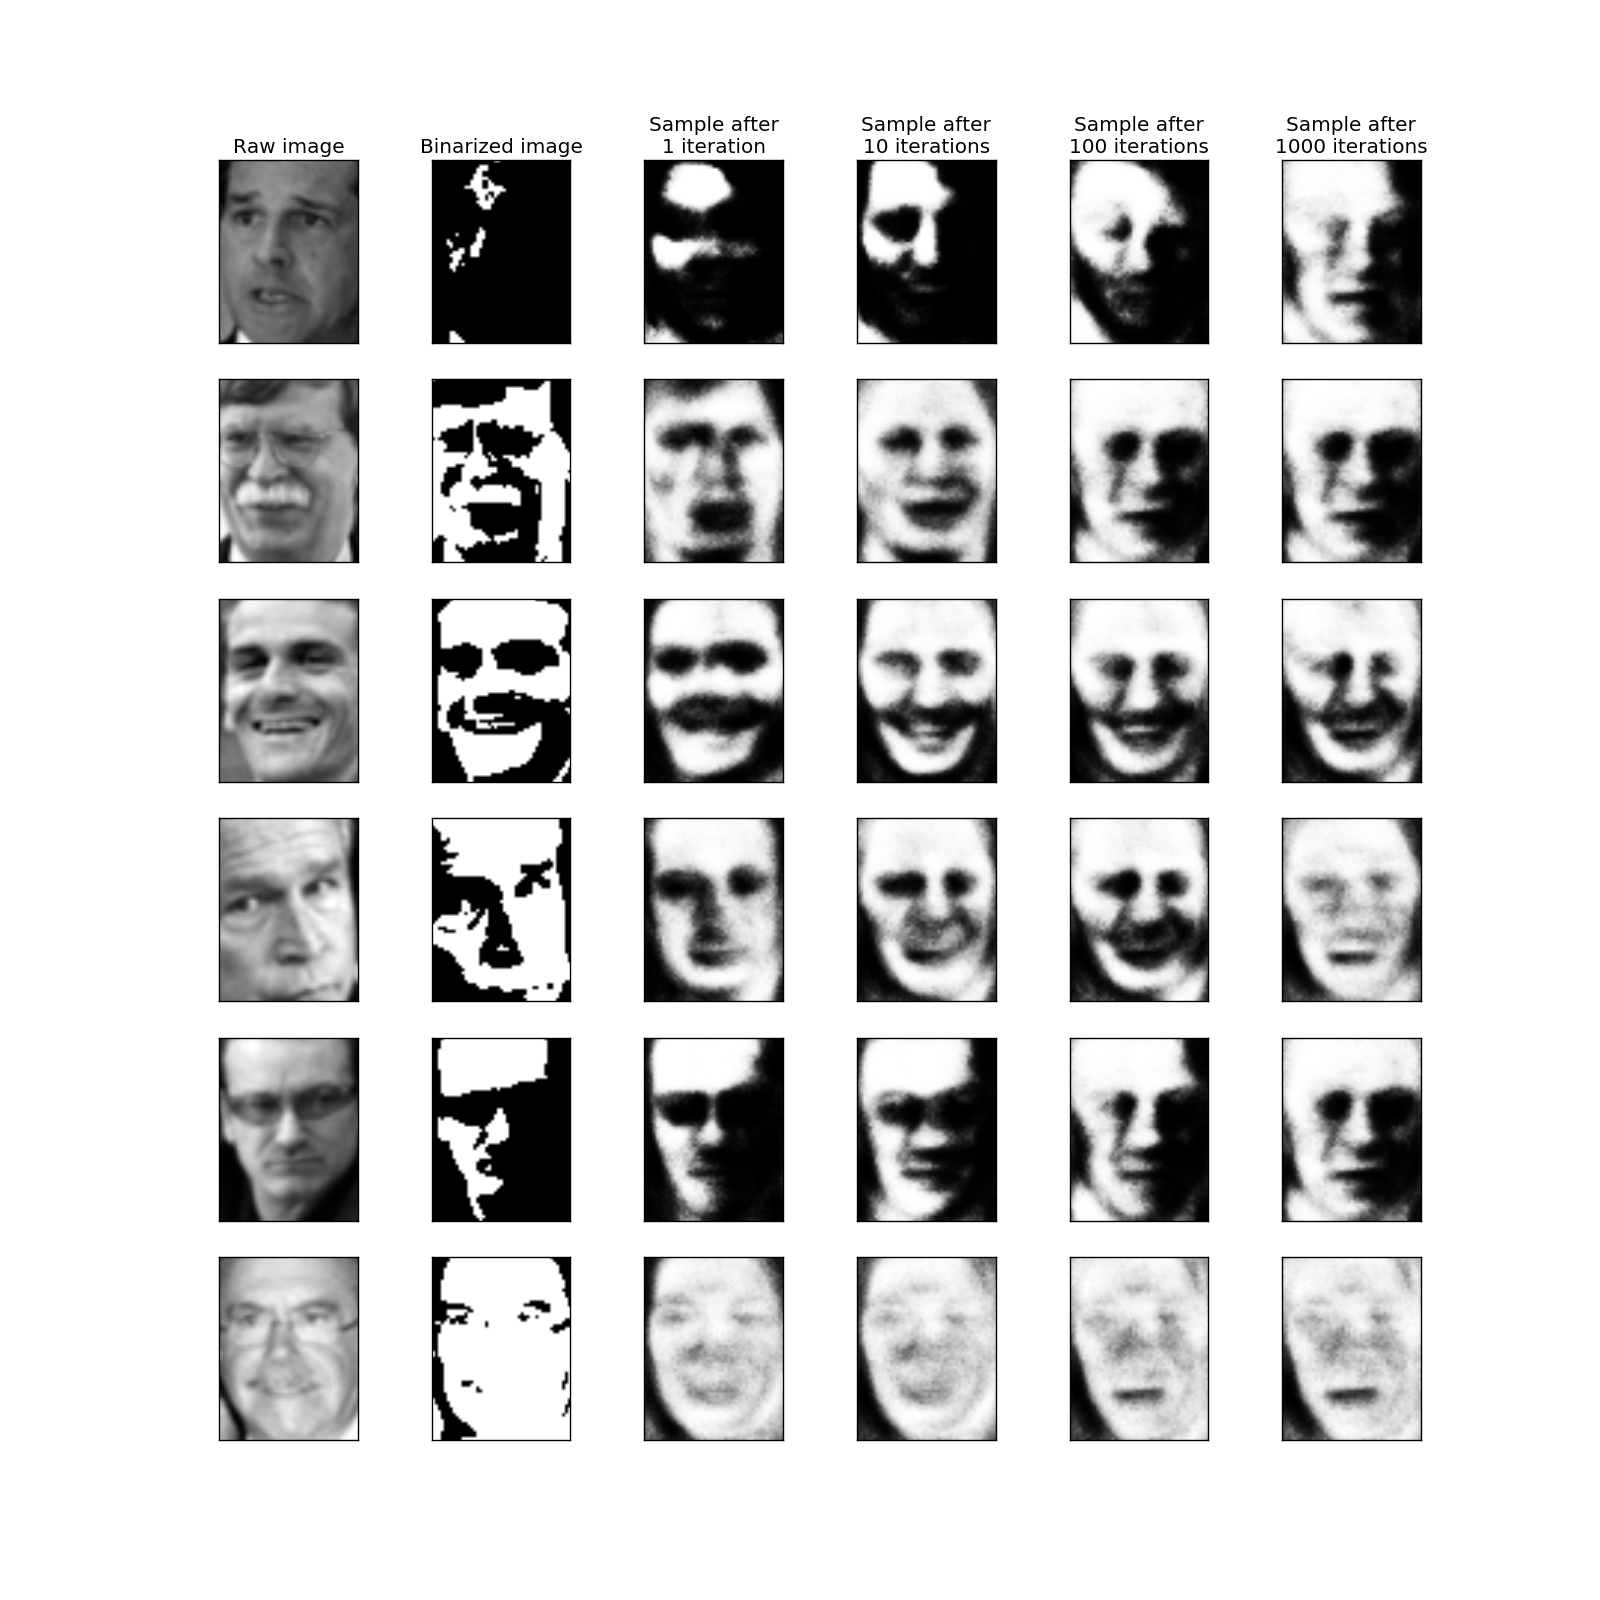
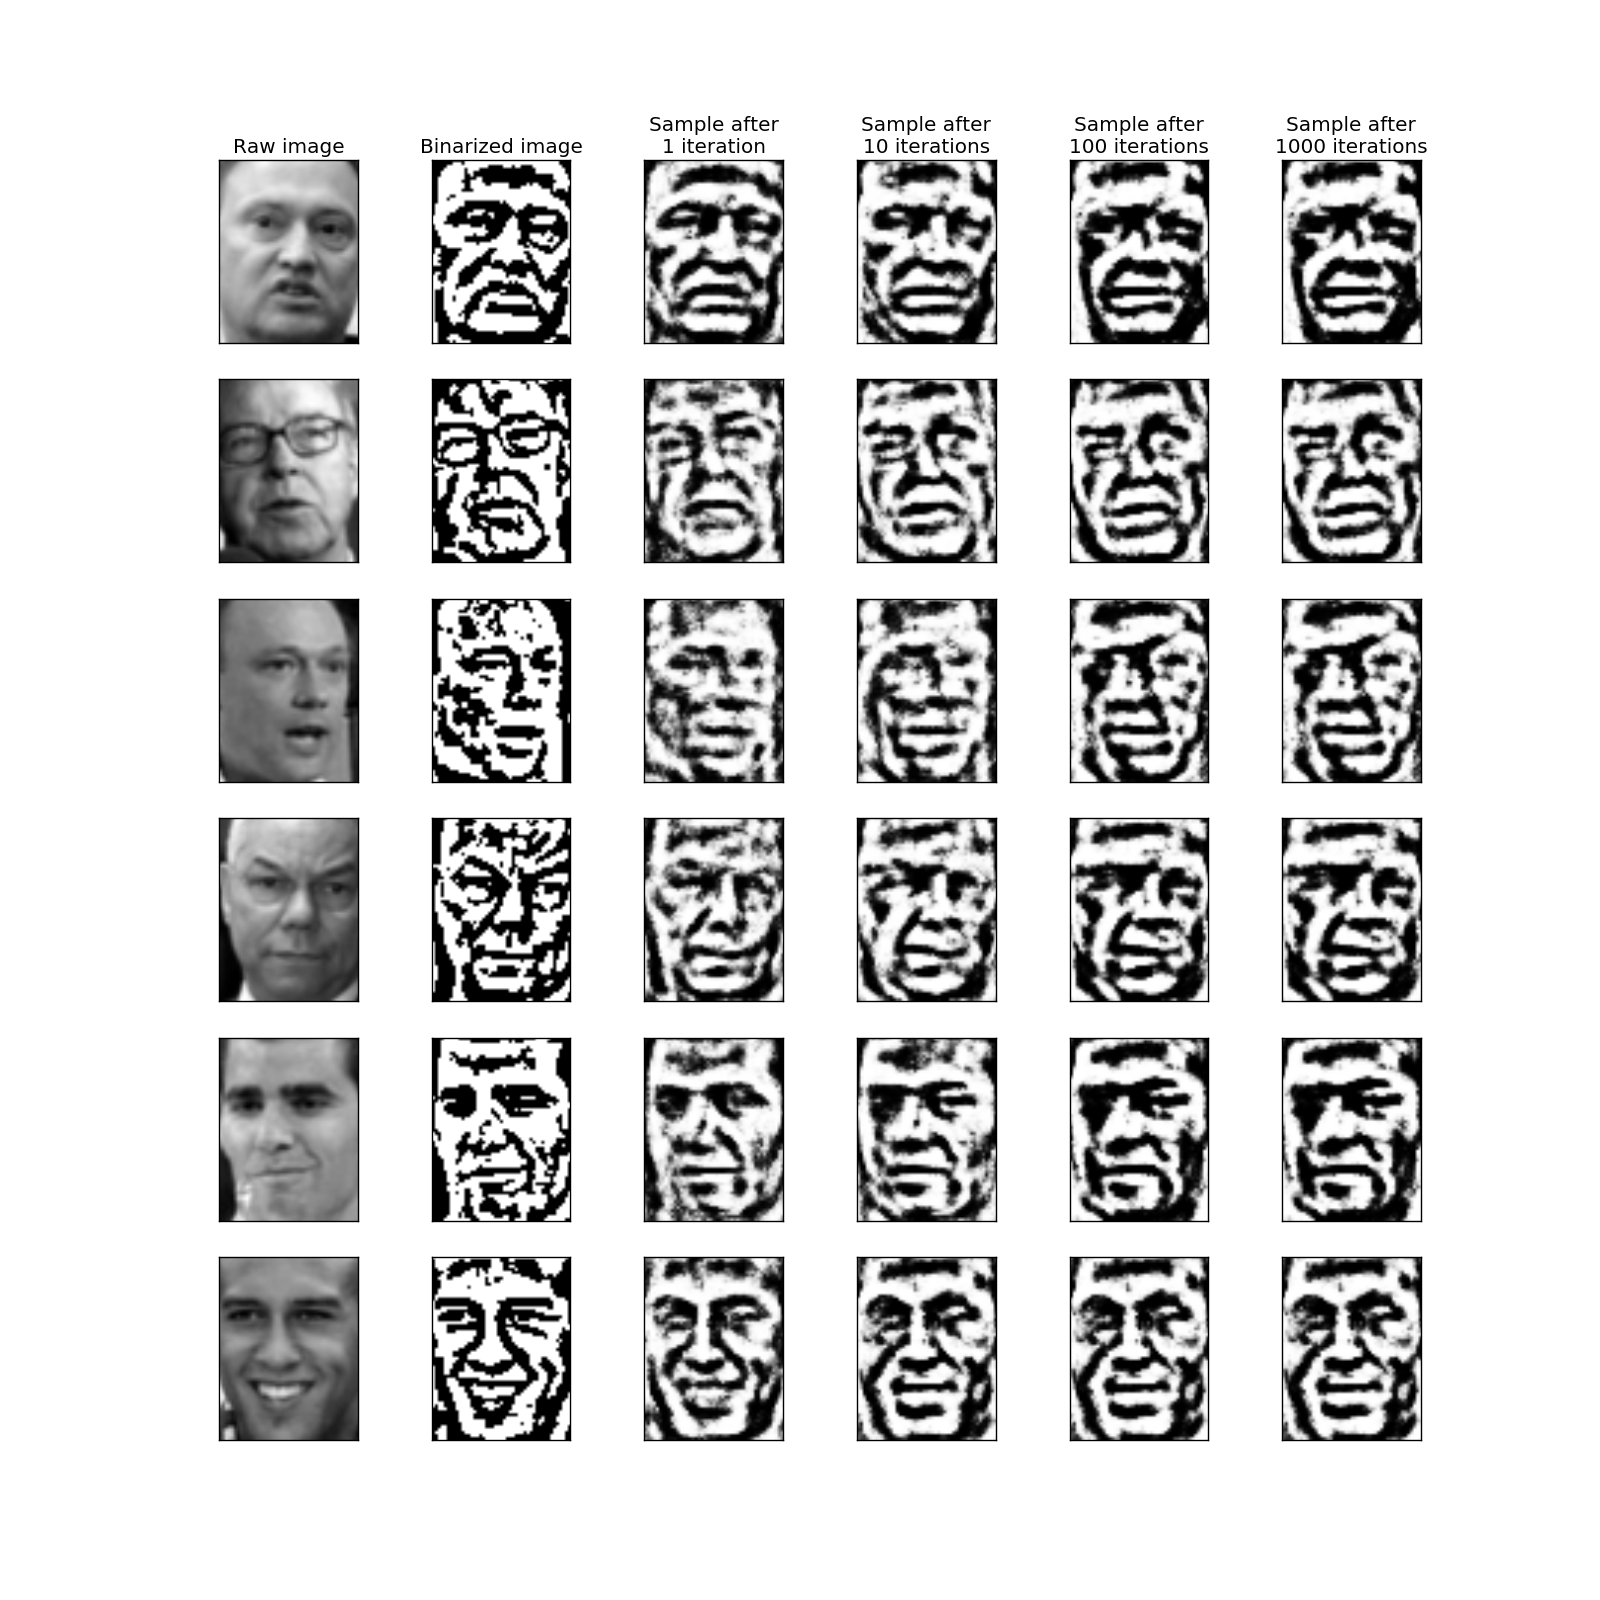
RBM modify face sampling example.

diff --git a/examples/boltzmann_machine/rbm_faces_sampling.py b/examples/boltzmann_machine/rbm_faces_sampling.py
@@ -5,6 +5,7 @@ import numpy as np
 import matplotlib.pyplot as plt
 from sklearn import datasets
 from sklearn.cross_validation import train_test_split
+from skimage.filters import threshold_adaptive
 from neupy import algorithms, environment
 from neupy.utils import asfloat
 
@@ -53,7 +54,14 @@ def plot_rbm_sampled_images(rbm_network, data, training_data):
     for ax in itertools.chain(*axes):
         disable_ticks(ax)
 
-    plt.show()
+
+def binarize_images(data):
+    binarized_data = []
+    for image in data:
+        binary_adaptive = threshold_adaptive(image.reshape((62, 47)),
+                                             block_size=15)
+        binarized_data.append(binary_adaptive.ravel())
+    return asfloat(binarized_data)
 
 
 environment.reproducible()
@@ -63,7 +71,7 @@ people_dataset = datasets.fetch_lfw_people()
 data = people_dataset.data
 np.random.shuffle(data)
 
-binarized_data = asfloat(data > 130)
+binarized_data = binarize_images(data)
 
 x_train, x_test, binarized_x_train, binarized_x_test = train_test_split(
     data, binarized_data, train_size=0.9
@@ -71,13 +79,14 @@ x_train, x_test, binarized_x_train, binarized_x_test = train_test_split(
 
 rbm = algorithms.RBM(
     n_visible=2914,
-    n_hidden=500,
+    n_hidden=1200,
     step=0.01,
-    batch_size=20,
+    batch_size=10,
 
     verbose=True,
     shuffle_data=True,
 )
-rbm.train(binarized_x_train, binarized_x_test, epochs=20)
+rbm.train(binarized_x_train, binarized_x_test, epochs=70)
 
 plot_rbm_sampled_images(rbm, x_test, binarized_x_test)
+plt.show()

diff --git a/README.rst b/README.rst
@@ -1,10 +1,14 @@
-|Travis|_ |Dependency Status|_
+|Travis|_ |Dependency Status|_ |License|_
 
 .. |Travis| image:: https://api.travis-ci.org/itdxer/neupy.png?branch=master
 .. _Travis: https://travis-ci.org/itdxer/neupy
 
 .. |Dependency Status| image:: https://dependencyci.com/github/itdxer/neupy/badge
 .. _Dependency Status: https://dependencyci.com/github/itdxer/neupy
+
+.. |License| image:: https://img.shields.io/badge/license-MIT-blue.svg
+.. _License: https://github.com/itdxer/neupy/blob/master/LICENSE
+
 
 NeuPy v0.3.1 (beta)
 ===================
